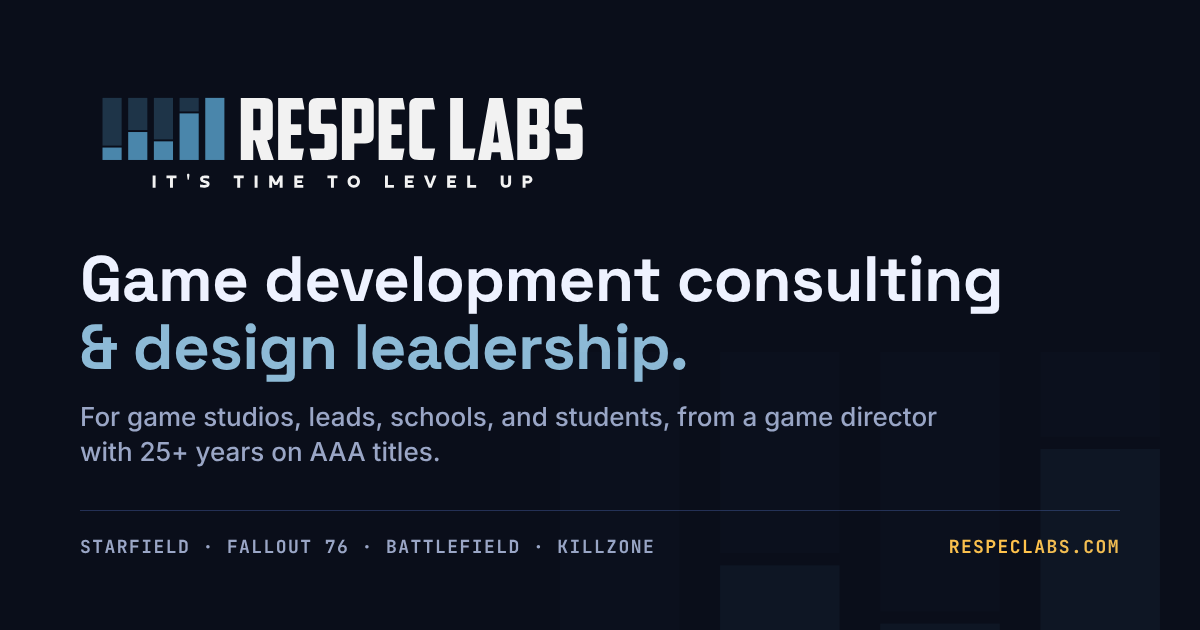
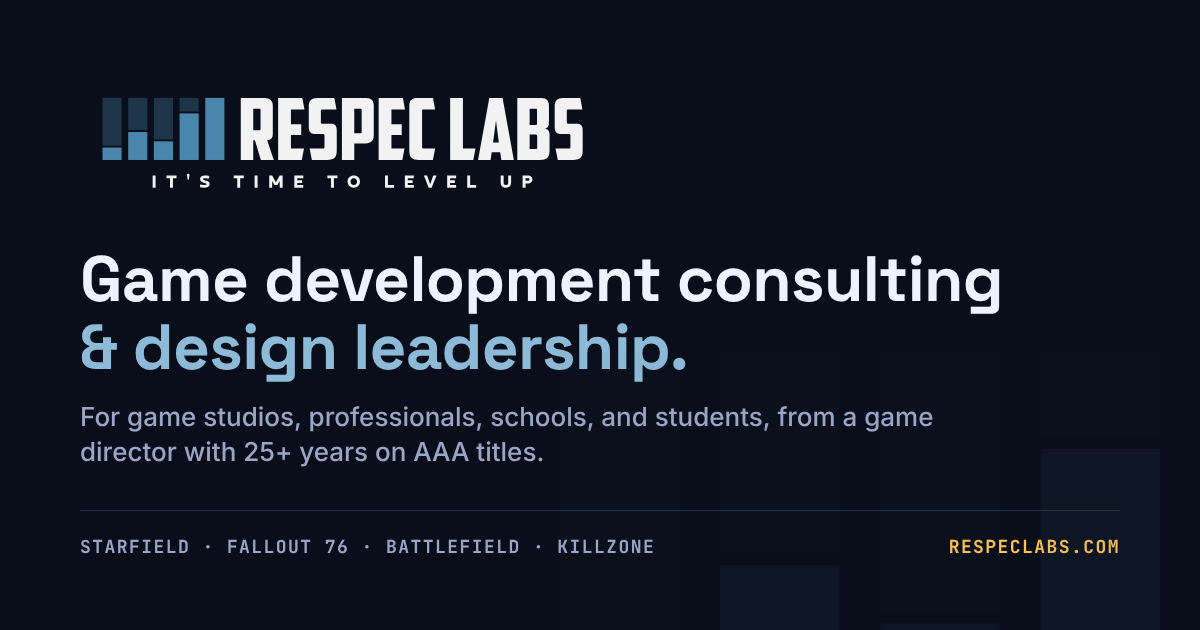
Copy: 'professionals' (every level) instead of 'leads' in share text, share image, and summaries
Claude-Session: https://claude.ai/code/session_01UxKuUrLDhhqrnA9ag9QBPw

Changed region(s): [[0.0617, 0.6333, 0.7708, 0.754]]

diff --git a/index.html b/index.html
@@ -13,7 +13,7 @@
 <meta property="og:site_name" content="Respec Labs">
 <meta property="og:locale" content="en_US">
 <meta property="og:title" content="Respec Labs | Game Development Consulting &amp; Design Leadership">
-<meta property="og:description" content="Consulting, fractional design leadership, coaching, and career mentoring for game studios, leads, schools, and students, from a game director with 25+ years on AAA titles.">
+<meta property="og:description" content="Consulting, fractional design leadership, coaching, and career mentoring for game studios, professionals, schools, and students, from a game director with 25+ years on AAA titles.">
 <meta property="og:url" content="https://respeclabs.com/">
 <meta property="og:image" content="https://respeclabs.com/assets/social/og-image.png">
 <meta property="og:image:width" content="1200">
@@ -21,7 +21,7 @@
 <meta property="og:image:alt" content="Respec Labs: game development consulting, fractional design leadership, coaching, and career mentoring">
 <meta name="twitter:card" content="summary_large_image">
 <meta name="twitter:title" content="Respec Labs | Game Development Consulting &amp; Design Leadership">
-<meta name="twitter:description" content="Consulting, fractional design leadership, coaching, and career mentoring for game studios, leads, schools, and students, from a game director with 25+ years on AAA titles.">
+<meta name="twitter:description" content="Consulting, fractional design leadership, coaching, and career mentoring for game studios, professionals, schools, and students, from a game director with 25+ years on AAA titles.">
 <meta name="twitter:image" content="https://respeclabs.com/assets/social/og-image.png">
 <meta name="twitter:image:alt" content="Respec Labs: game development consulting, fractional design leadership, coaching, and career mentoring">
 <script type="application/ld+json">
@@ -37,7 +37,7 @@
       "logo": "https://respeclabs.com/assets/logo/symbol/symbol.png",
       "image": "https://respeclabs.com/assets/social/og-image.png",
       "slogan": "It's time to level up",
-      "description": "Game development consulting, fractional design leadership, professional coaching, academic advisory, and career mentoring for game studios, creative teams, leads, schools, students, and recent graduates.",
+      "description": "Game development consulting, fractional design leadership, professional coaching, academic advisory, and career mentoring for game studios, creative teams, professionals at every level, schools, students, and recent graduates.",
       "email": "hello@respeclabs.com",
       "founder": { "@id": "https://respeclabs.com/#daniele-nanni" },
       "areaServed": "Worldwide",
@@ -49,7 +49,7 @@
         "name": "Respec Labs services",
         "itemListElement": [
           { "@type": "Offer", "itemOffered": { "@type": "Service", "name": "Studio Strategist: game studio consulting and fractional design leadership", "serviceType": "Game development consulting and fractional design leadership", "description": "Consulting and fractional design leadership for studios: team structure, hiring strategy, project direction, scope and milestone planning, and interim leadership.", "audience": { "@type": "Audience", "audienceType": "Game studios and development teams" } } },
-          { "@type": "Offer", "itemOffered": { "@type": "Service", "name": "Pro Coach: career coaching for game industry professionals", "serviceType": "Career coaching", "description": "One-on-one coaching for working and between-jobs professionals: next-role and promotion strategy, leadership growth, résumé and portfolio reviews, and interview prep.", "audience": { "@type": "Audience", "audienceType": "Game industry professionals and job seekers" } } },
+          { "@type": "Offer", "itemOffered": { "@type": "Service", "name": "Pro Coach: career coaching for game industry professionals", "serviceType": "Career coaching", "description": "One-on-one coaching for professionals at every level, working or between jobs: next-role and promotion strategy, leadership growth, résumé and portfolio reviews, and interview prep.", "audience": { "@type": "Audience", "audienceType": "Game industry professionals and job seekers" } } },
           { "@type": "Offer", "itemOffered": { "@type": "Service", "name": "Academy Advisor: game design academic advisory", "serviceType": "Academic advisory", "description": "Curriculum advising, program consulting, workshops, and guest lectures for game design schools and programs.", "audience": { "@type": "Audience", "audienceType": "Schools and game design programs" } } },
           { "@type": "Offer", "itemOffered": { "@type": "Service", "name": "Student Mentor: mentoring for students and new grads", "serviceType": "Student career mentoring", "description": "Mentoring at a student rate: academic and career direction, feedback on your projects and portfolio, and getting hire-ready with résumé reviews and interview prep.", "audience": { "@type": "Audience", "audienceType": "Students, recent graduates, and entry-level candidates" } } }
         ]
@@ -411,7 +411,7 @@
       <article class="class">
         <div class="class-top"><span class="k-mono">CLASS 02</span><span class="badge"><img class="mark sprite" src="assets/classes/fighter.svg" alt="Fighter class icon for Pro Coach career coaching for professionals" width="48" height="48"></span></div>
         <h3>Pro Coach</h3>
-        <p>One-on-one coaching for working and between-jobs professionals: next-role and promotion strategy, leadership growth, résumé and portfolio reviews, and interview prep.</p>
+        <p>One-on-one coaching for professionals at every level, working or between jobs: next-role and promotion strategy, leadership growth, résumé and portfolio reviews, and interview prep.</p>
         <div class="best"><span>BEST FOR</span><b>Pros &amp; job seekers</b></div>
       </article>
       <article class="class">
